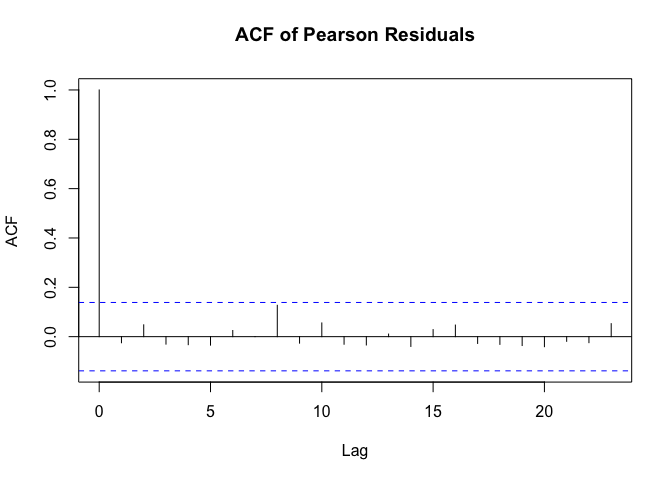
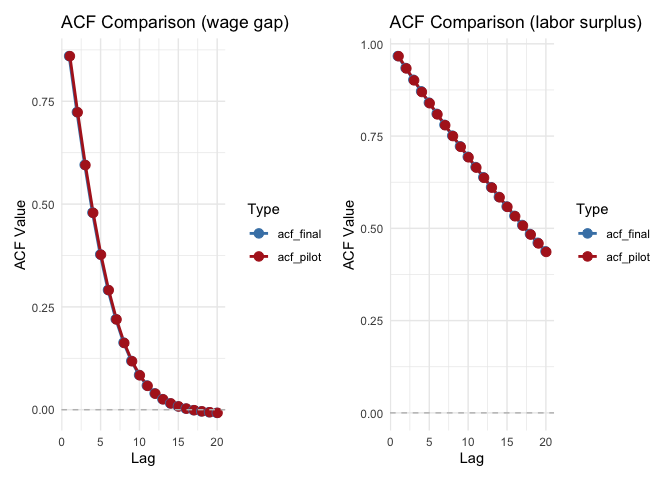
fix t_eff

diff --git a/wage_lab.md b/wage_lab.md
@@ -517,7 +517,7 @@ $T_{eff}$: effective sample size - $p$: crisis probability
 
 Every predictor requires a sufficient number of independent observations
 to ensure reliable parameter estimates. By setting $T_{eff}$ based on
-$CP\_L$, we guarantee at least 11 independent observations for the most
+$CP\_L$, we guarantee at least 5 independent observations for the most
 autocorrelated variable. Meanwhile, $CP\_W$ automatically yields an
 excess of observations given its lower autocorrelation, making $CP\_L$
 the binding constraint.
@@ -826,7 +826,7 @@ estimates.
 
 #### Time Series Diagnosis
 
-1.  Comparison of the ACF of the pilot and final simulation : Why?
+1.  Comparison of the ACF of the pilot and final simulation :
 
 ``` r
 acfin_matrix_l <- matrix(NA, nrow = lag_max , ncol = N_final)
@@ -848,14 +848,55 @@ acf_comp_w <- data.frame(lag = 1:lag_max,
                          acf_pilot = acf_avg_w)
 ```
 
-If the final simulation and the pilot simulation has the same
-autocorrelation structure :
+``` r
+acf_comparison <- function(acf_comp, title = "ACF Comparison: Final vs Pilot"){
+  
+  # convert to long format 
+  acf_long <- pivot_longer(acf_comp, 
+                           cols = c(acf_final, acf_pilot), 
+                           names_to = "Type", 
+                           values_to = "ACF_Values")
+  
+  # clot with dodged points and lines
+  p <- ggplot(acf_long, aes(x = lag, y = ACF_Values, color = Type, group = Type)) +
+    geom_line(position = position_dodge(width = 0.2), linewidth = 1) + 
+    geom_point(position = position_dodge(width = 0.2), size = 3) + 
+    geom_hline(yintercept = 0, linetype = "dashed", color = "gray") +
+    theme_minimal() +
+    # FIXED: Use the `title` argument here instead of hard-coding it
+    labs(title = title,        
+         x = "Lag", 
+         y = "ACF Value") +
+    scale_color_manual(values = c("acf_final" = "steelblue", "acf_pilot" = "firebrick"))
+  
+  # 3. Return the plot
+  return(p) 
+}
+```
 
-- The Data Generating Process is stable which implies that the same
-  parameters produce the same autocorrelation structure regardless of N.
-- The effective sample size (ESS) we derive from the pilot is valid for
-  the final simulation because the autocorrelation structure it was
-  based on has not changed.
+``` r
+plot_wage <- acf_comparison(acf_comp_w, title = "ACF Comparison (wage gap)" )
+plot_labor <-acf_comparison(acf_comp_l, title = "ACF Comparison (labor surplus)" )
+```
+
+``` r
+combined_plot <- plot_wage + plot_labor
+combined_plot
+```
+
+![](wage_lab_files/figure-gfm/unnamed-chunk-38-1.png)<!-- -->
+
+As confirmed by the plots, the final and pilot simulations exhibit the
+**same autocorrelation structure.** This alignment indicate two key
+points:
+
+- **Stability of the Data Generating Process (DGP):** The DGP is stable,
+  meaning the underlying parameters consistently produce the same
+  autocorrelation structure regardless of the sample size (N)
+
+- **Validity of the Effective Sample Size (ESS):** The ESS derived from
+  the pilot simulation remains valid for the final simulation, as the
+  underlying autocorrelation structure has remained unchanged.
 
 2.  Residual autocorrelation from logistic regression
 
